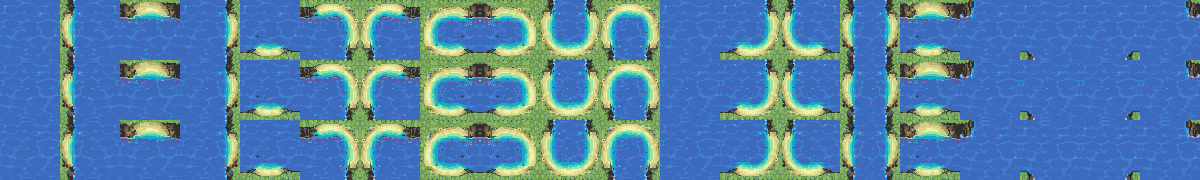
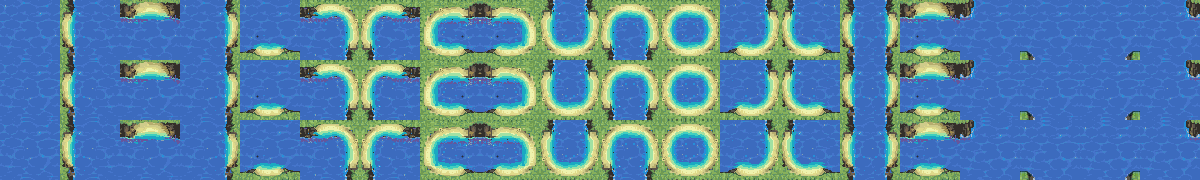
fix renderer bug
when unit type is 0

Changed region(s): [[0.5242, 0.0, 0.6167, 1.0]]

diff --git a/src/lib/Engine/Game.svelte b/src/lib/Engine/Game.svelte
@@ -26,8 +26,10 @@
 
 	let renderData: ObjectRenderer = {
 		ground: (type: number) => get(rendererStore).ground[type],
-		unit: (type?: number) => (type ? get(rendererStore).units[type] ?? null : null),
-		sky: (type?: number) => (type ? get(rendererStore).sky[type] ?? null : null),
+		unit: (type?: number) =>
+			typeof type !== 'undefined' ? get(rendererStore).units[type] ?? null : null,
+		sky: (type?: number) =>
+			typeof type !== 'undefined' ? get(rendererStore).sky[type] ?? null : null,
 	}
 
 	onMount(() => {

diff --git a/src/lib/Engine/Paint.ts b/src/lib/Engine/Paint.ts
@@ -48,7 +48,7 @@ export const paint =
 		const frame = get(animationFrame)
 
 		always(renderData.ground, map.layers.ground[tile])(width, height, frame)(context)
-		// conditional(renderData.unit, map.layers.units[tile])?.call(this, width, height, frame)(context)
+		conditional(renderData.unit, map.layers.units[tile])?.call(this, width, height, frame)(context)
 		conditional(renderData.sky, map.layers.sky[tile])?.call(this, width, height, frame)(context)
 
 		context.restore()
